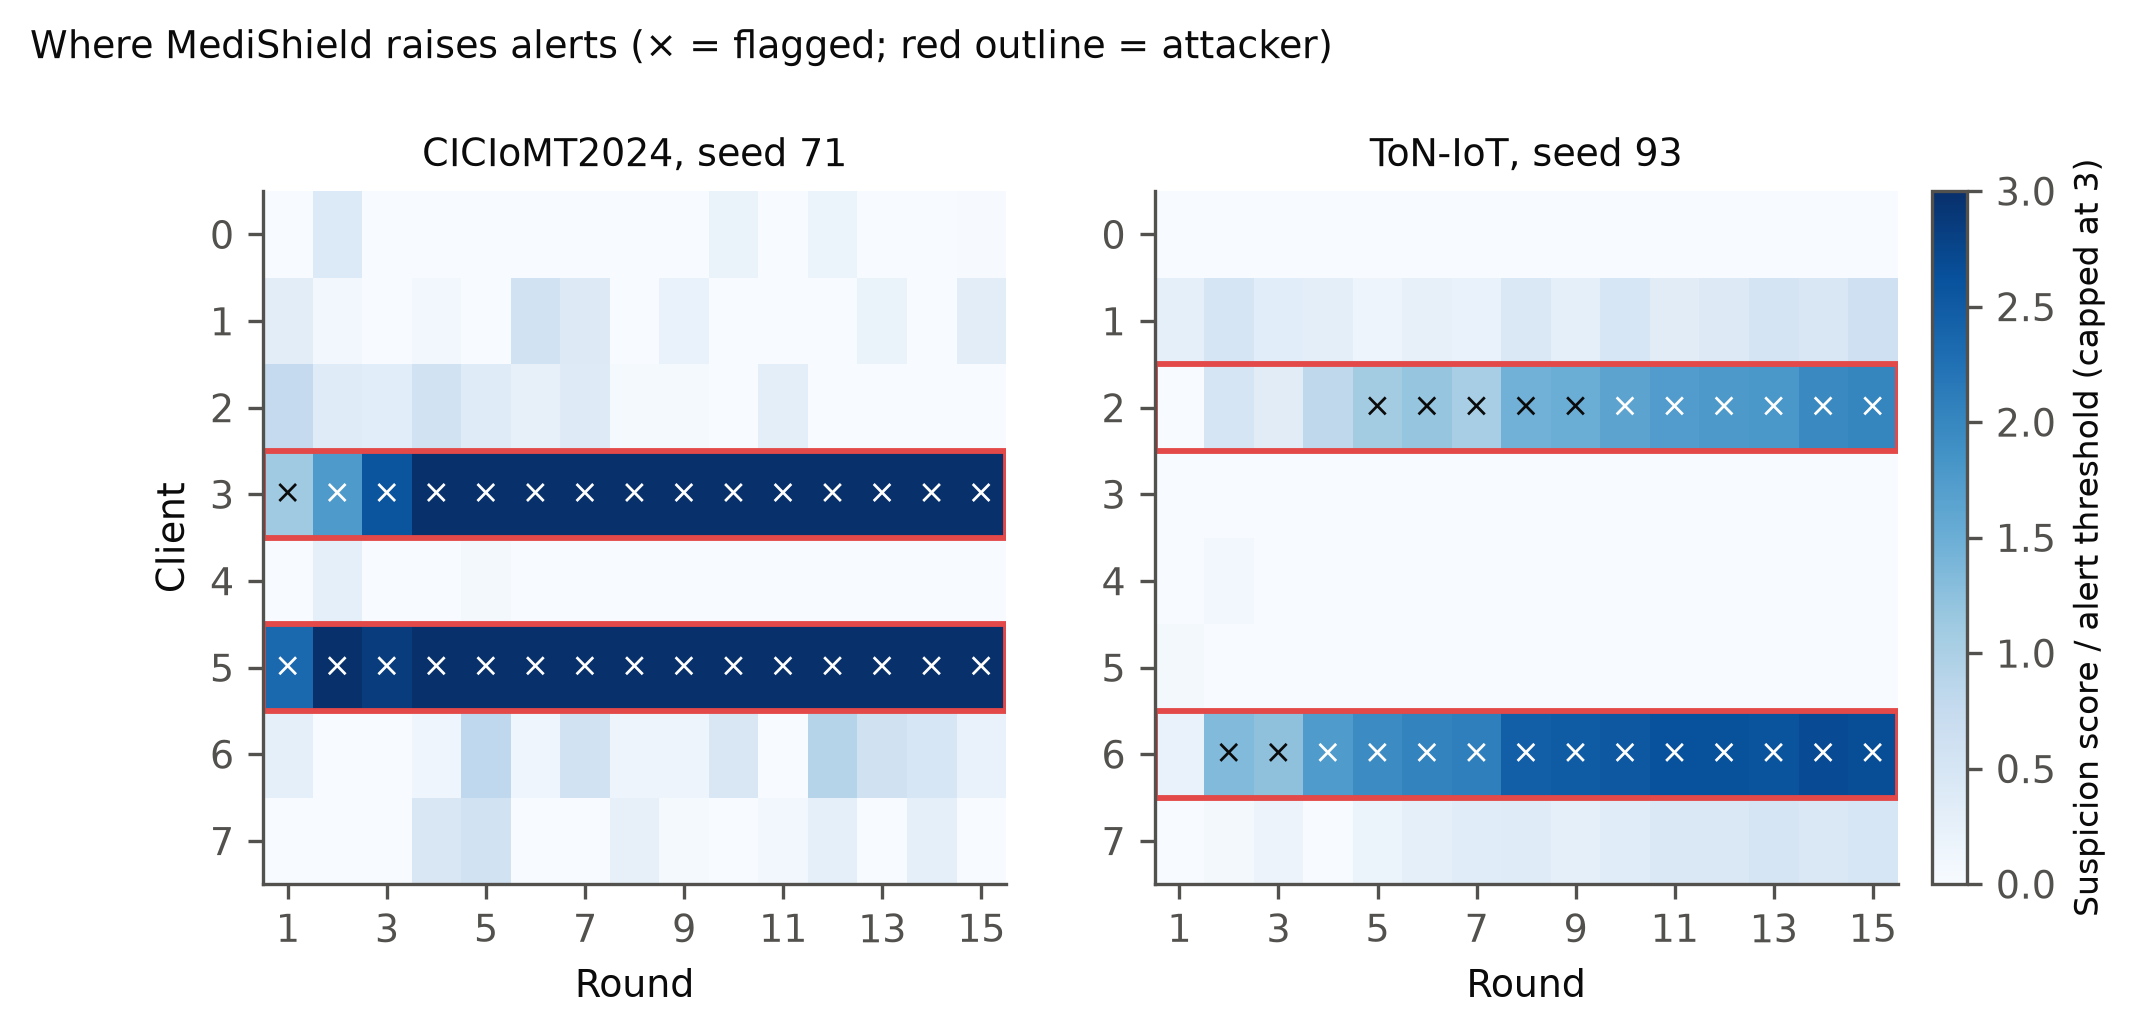
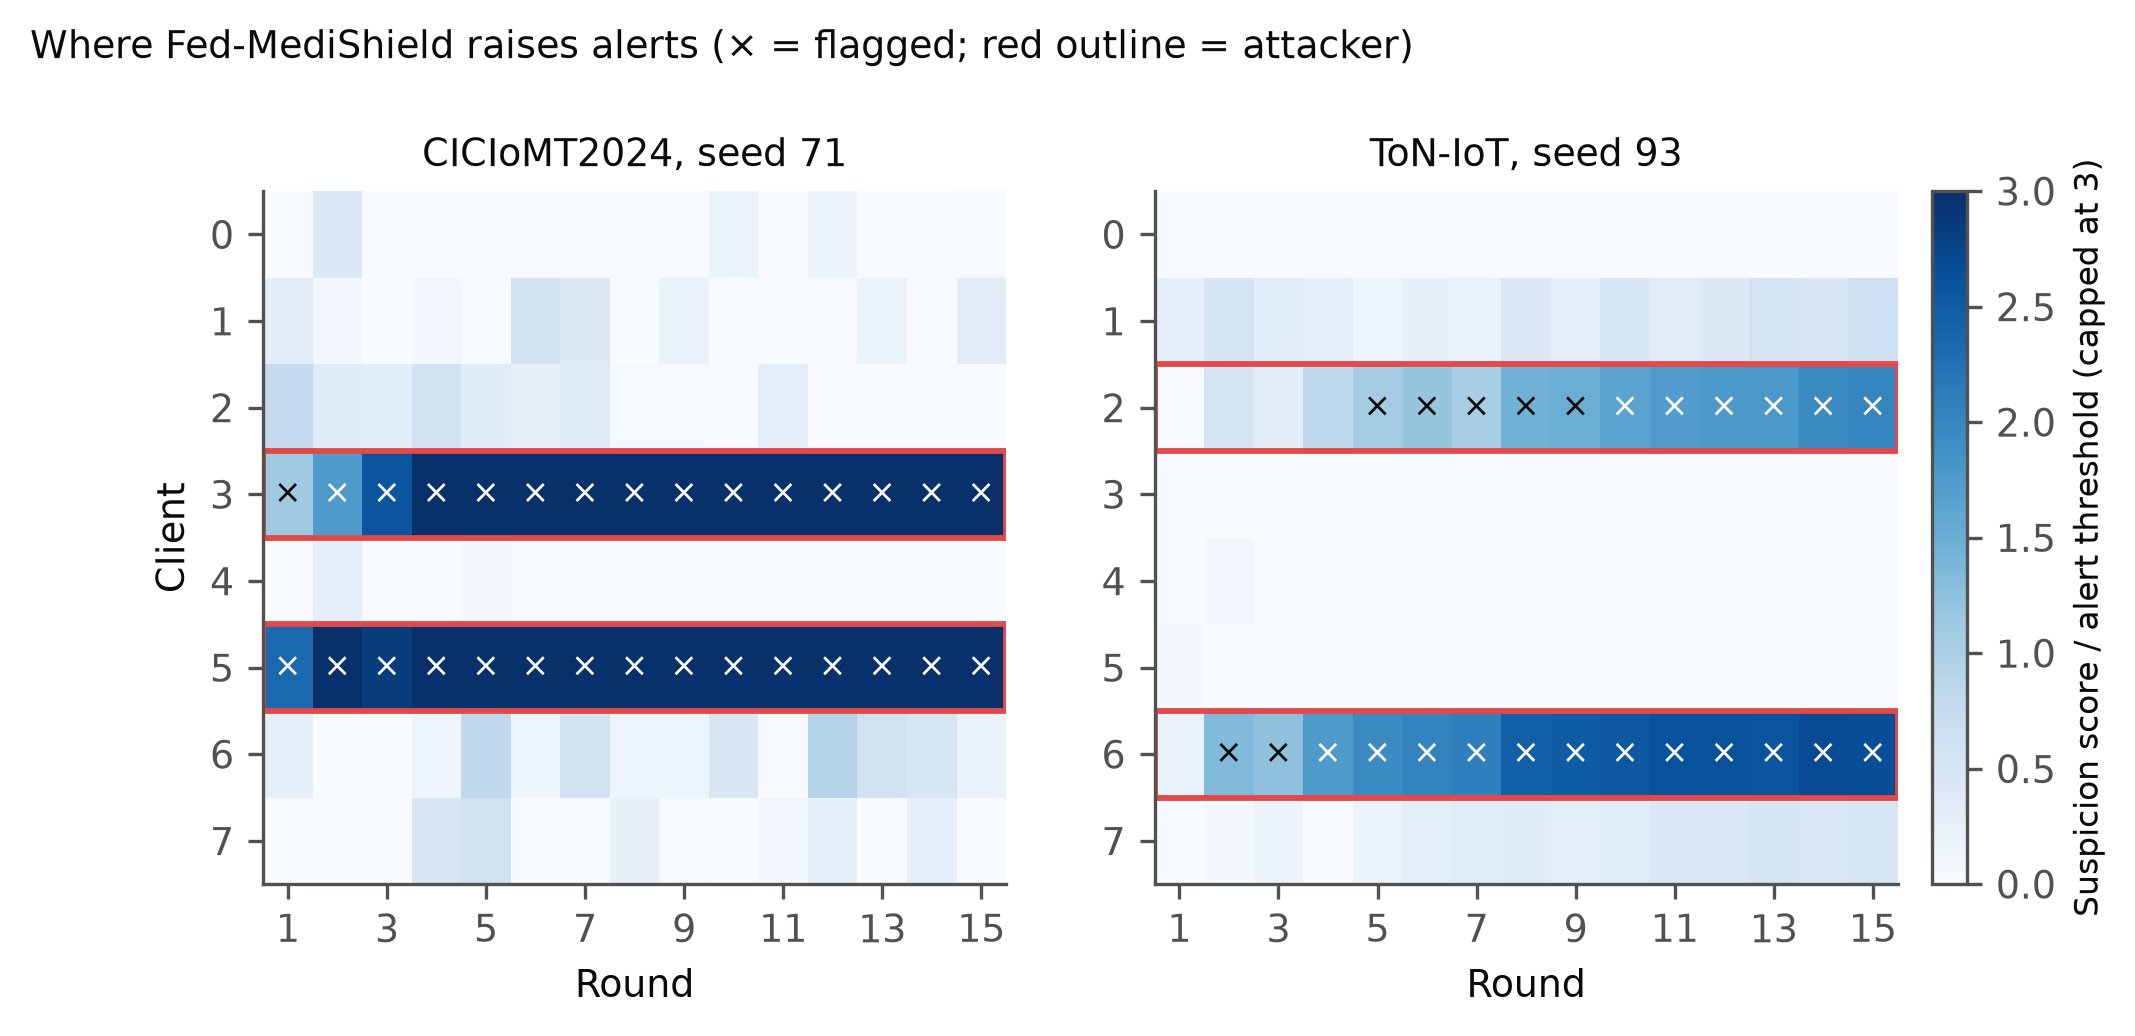
Fig. 5: use full method name in title

Changed region(s): [[0.0618, 0.0309, 0.6801, 0.0618]]

diff --git a/logs/make_figures_2.py b/logs/make_figures_2.py
@@ -124,7 +124,7 @@ for ax, (title, path) in zip(axes, (("CICIoMT2024, seed 71", LOGS / "phase2e_med
 axes[0].set_ylabel("Client")
 bar = fig.colorbar(image, ax=axes, fraction=0.03, pad=0.02)
 bar.set_label("Suspicion score / alert threshold (capped at 3)", fontsize=8)
-fig.suptitle("Where MediShield raises alerts (× = flagged; red outline = attacker)", fontsize=9, color=INK, x=0.02, ha="left", y=1.06)
+fig.suptitle("Where Fed-MediShield raises alerts (× = flagged; red outline = attacker)", fontsize=9, color=INK, x=0.02, ha="left", y=1.06)
 fig.savefig(OUT / "fig10_detection_heatmaps.png", dpi=300, bbox_inches="tight")
 fig.savefig(OUT / "fig10_detection_heatmaps.pdf", bbox_inches="tight")
 plt.close(fig)
